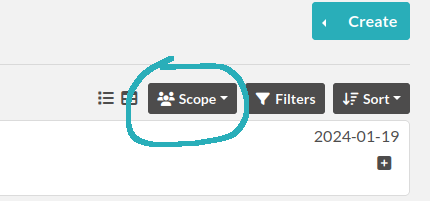
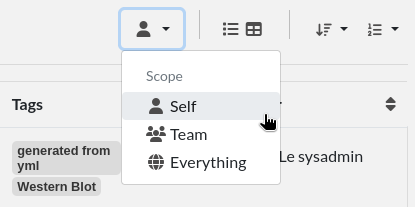
DOC/MAJOR: some corrections, update assets, additions for compounds and templates related topics and

diff --git a/doc/user-guide.rst b/doc/user-guide.rst
@@ -23,16 +23,22 @@ Experiments
 
 Experiment entries are the core of the eLabFTW lab notebook. Select "Experiments" from the menu bar at the top of the page to show a list of Experiment entries.
 
-.. image:: img/user-experiments-menu.png
+.. figure:: img/user-experiments-menu.png
+   :align: center
+   :alt: eLabFTW toolbar
 
+   Menu toolbar
 
 .. figure:: img/user-show-mode.png
+   :align: center
    :alt: eLabFTW Experiments
 
+   Experiments page
 
-You can change the page layout by clicking the **Layout** button on the top right of the first listed Experiment:
+You can change the page layout by clicking the **Layout** button on the top right of the experiments list:
 
 .. figure:: img/user-switch-layout.png
+   :align: center
    :alt: eLabFTW layout button
 
    Layout button
@@ -40,15 +46,18 @@ You can change the page layout by clicking the **Layout** button on the top righ
 To make the entries appear like this:
 
 .. figure:: img/user-alt-layout.png
+   :align: center
    :alt: eLabFTW alternate layout
 
    Alternate layout
 
-
-
 By default, the page shows both Experiments created by you and those created by other Users in your team. To see **only** your Experiments, you can change the **Scope** using the drop-down menu that appears after clicking the button on the right:
 
-.. image:: img/user-scope-button.png
+.. figure:: img/user-scope-button.png
+   :align: center
+   :alt: set scope to self
+
+   Set scope to self
 
 Set the scope to "*Self*" to display only Experiments that you created. Note that the Resources or Templates pages also allow you to filter entries using the scope button, and your selection is remembered.
 
@@ -61,9 +70,10 @@ An Experiment entry can include many different types of information, such as:
 * A Category
 * A Status
 * Tags
+* Permissions
 * The main text, which can include images, tables, and links
-* Steps
 * Extra fields
+* Steps
 * Links to other Experiments or Resources
 * Attachments
 
@@ -89,7 +99,11 @@ Switch between "edit" mode and "view" mode.
 ^^^^^^^^^^^^^^^^^^
 Create a new entry with the same Title, Tags, text, and links, but with today's date and the Status set as "Running". A pop-up message will ask if you would like to copy the attached files to the duplicated entry. An «I» character is added to the title to indicate that it is a duplicate.
 
-4. Timestamp
+4. Add signature
+^^^^^^^^^^^^^^^^
+Add a signature to prove that this entry has been approved by a referenced human. See :ref:`Signatures documentation <signatures>`.
+
+5. Timestamp
 ^^^^^^^^^^^^
 When you click this button, a timestamp archive is created. This is a signed, legally binding snapshot of the entry that is stored alongside the attached files in an immutable archive. Timestamping an entry involves generating a full JSON export of the entry and creating a cryptographic hash of that data. This hash is then sent to a trusted third party: the TimeStamping Authority (TSA).
 
@@ -108,11 +122,11 @@ This timestamp archive is immutable and cannot be modified or deleted.
     :alt: timestamp archive
 
 
-5. Blockchain timestamp
+6. Blockchain timestamp
 ^^^^^^^^^^^^^^^^^^^^^^^
 This button will perform the same action as a timestamp, except it will use blockchain technology and the service provided by the Bloxberg consortium. You can learn more about it here: `Bloxberg website <https://bloxberg.org/discover/mission/>`_.
 
-6. Export button
+7. Export button
 ^^^^^^^^^^^^^^^^
 
 .. image:: img/export-options.png
@@ -124,16 +138,26 @@ The Export menu allows you to save the entry in different file formats.
 The ELN format is a new file format based on RO-Crate specification. It contains a special file (in JSON-LD) describing the contents of the dataset (one or several Experiments). It is designed and promoted by The ELN Consortium, an association of several ELN vendors that agreed on an interchange format for export/import of datasets. Learn more about it here: `TheELNConsortium on GitHub <https://github.com/TheELNConsortium/>`_.
 
 
-7. Pin entry
+8. Pin entry
 ^^^^^^^^^^^^
 Clicking this icon will make this entry appear on top of the list on the main page (pin entry). Use this to easily access frequently used entries.
 
-8. Lock/unlock entry
+9. Lock/unlock entry
 ^^^^^^^^^^^^^^^^^^^^
 Use this to lock the entry and prevent further editing. Only an Admin or the user who locked an experiment can unlock it.
 
-9. Ellipsis menu
-^^^^^^^^^^^^^^^^
+10. Request action
+^^^^^^^^^^^^^^^^^^
+Request another user to perform an action on a given entry.
+
+   - Archive
+   - Lock
+   - Review
+   - Sign
+   - Timestamp
+
+11. Ellipsis menu
+^^^^^^^^^^^^^^^^^
 
    - Transfer ownership: For entries you created, you can transfer ownership to a different user
    - See revisions: View revisions to the main text of the entry
@@ -305,9 +329,9 @@ Templates
 
 In order to save time when creating Experiments, eLabFTW features a Templates system for Experiments.
 
-It is recommended to create Templates for Experiments you often do. You can think of a Template as a skeleton of a real Experiment. To create a template, select "Templates" from the User menu.
+It is recommended to create Templates for Experiments you often do. You can think of a Template as a skeleton of a real Experiment. To create a template, select "Templates" from the menu bar at the top.
 
-.. image:: img/user-templates-menu.png
+.. image:: img/templates-menu.png
 
 Then, click the "Create" button, enter a title, and start editing your template. Once you are satisfied with it, click save. As you can see, you can have different permissions for the template itself, and for the Experiment that will be created from that template.
 
@@ -346,7 +370,7 @@ Furthermore, Resources can be made bookable, see section below.
 Booking Resources
 =================
 
-It is possible to use the scheduler (calendar) present on the Team page's first tab to book Resources.
+It is possible to use the scheduler (calendar) present on the Scheduler page to book Resources.
 
 Making a Resource bookable
 --------------------------
@@ -463,6 +487,11 @@ Creating a compound manually
 ----------------------------
 
 Maybe you've just created an never-seen before chemical compound, which means you cannot import it from PubChem. In this case, click the "Add compound" button to manually add a compound. Be aware, as mentioned above, the new compound will be visible by all users of the instance. In case you want to keep it confidential, do not add it.
+
+Creating a compound manually
+----------------------------
+
+Look at the :ref:`Import compounds through CLI <compounds-import>` section to learn how to import your compounds from a spreadsheet file or through the API.
 
 Fingerprints
 ------------
@@ -609,6 +638,8 @@ You can export and import items from the database (it can be several items).
    <iframe width="560" height="315" src="https://www.youtube.com/embed/maylkcTAarg" frameborder="0" allow="accelerometer; autoplay; encrypted-media; gyroscope; picture-in-picture" allowfullscreen></iframe>
 
 In the editor, press Ctrl+shift+d to get today's date inserted at cursor position.
+
+.. _signatures:
 
 Signatures
 ==========

diff --git a/doc/import-export.rst b/doc/import-export.rst
@@ -64,7 +64,7 @@ As you can see, there are two mandatory arguments, the path to the file, and the
 
    docker cp your.eln elabftw:/elabftw/exports/
 
-Figure out the Team ID by looking at the Team from the Sysconfig panel, where the ID will be displayed next to the Team. Next, import your file with:
+Figure out the Team ID by looking at the Teams tab from the Sysconfig panel, where the ID will be displayed next to the Team. Next, import your file with:
 
 .. code-block:: bash
 
@@ -177,6 +177,34 @@ If you want to have complete control over the import process, you can use a few 
 We will use the `elabapi-python` library to make things easy. See `installation instructions <https://github.com/elabftw/elabapi-python#installation>`_.
 
 You can then have a look at `this example to import CSV using the API and metadata/extra fields <https://github.com/elabftw/elabapi-python/blob/master/examples/09-import-csv.py>`_.
+
+.. _compounds-import:
+
+Importing compounds through CLI (csv file)
+------------------------------------------
+
+.. note:: This approach is only available to Sysadmins with shell access.
+
+If you're working with a large database of compounds, using the CLI is a more efficient approach. Display the help with:
+
+.. code-block:: bash
+
+   docker exec -it -u nginx:nginx elabftw bin/console import:compounds -h
+
+The file must be available inside the container at /elabftw/exports. Use the following to copy your file into the container:
+
+.. code-block:: bash
+
+   docker cp your_compounds.csv elabftw:/elabftw/exports/
+
+Figure out the Team ID by looking at the Teams tab from the Sysconfig panel, where the ID will be displayed next to the Team. Next, import your file with:
+
+.. code-block:: bash
+
+   # import in team 2 and be verbose
+   docker exec -it -u nginx:nginx elabftw bin/console import:compounds -vv your_compounds.csv 2
+   # import in team 25, force everything to be owned by user 5 and be extra verbose
+   docker exec -it -u nginx:nginx elabftw bin/console import:compounds -vvv your_compounds.csv 25 --userid 5
 
 .. _exporting-data:
 

diff --git a/doc/addons.rst b/doc/addons.rst
@@ -71,3 +71,5 @@ Then enable it in ``elabftw`` container configuration:
     # This is for the integration of the DNA Cloning tool
     - USE_OPENCLONING=true
     - OPENCLONING_URL=http://opencloning-plugin:8000/
+
+Restart the ``elabftw`` container to take these changes into account.
